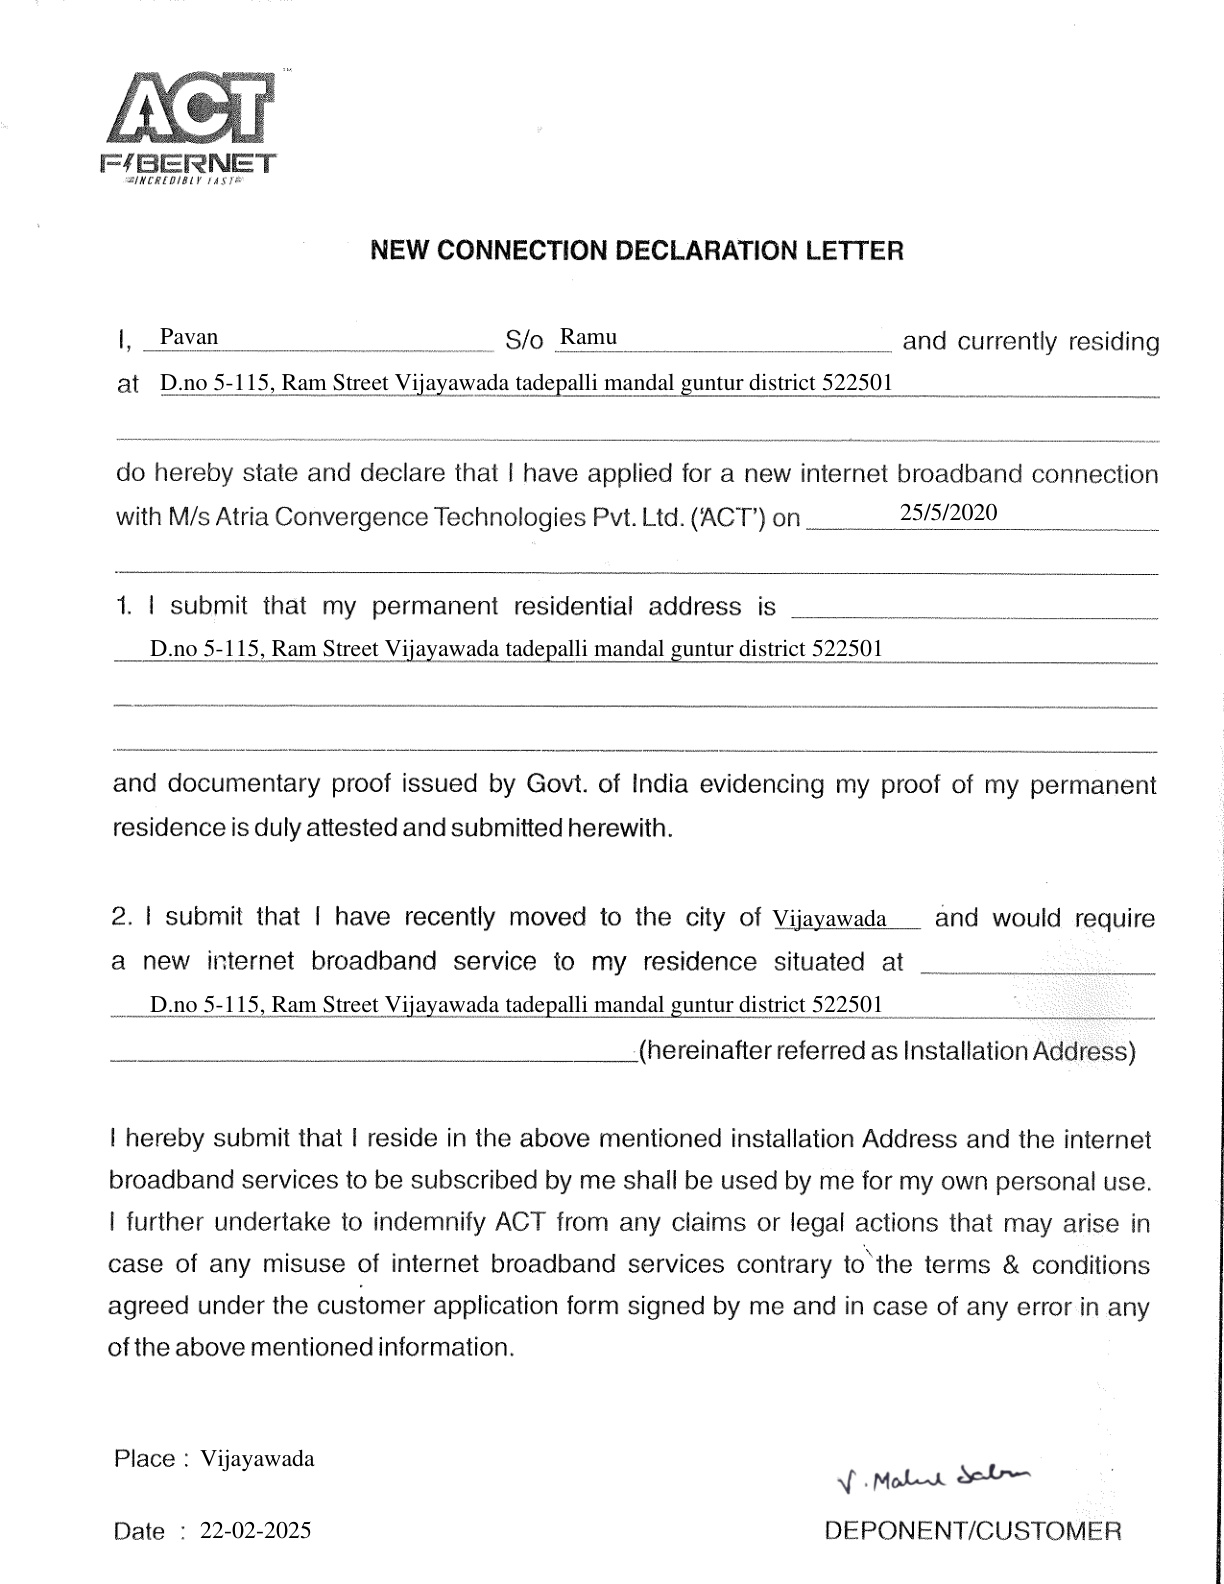
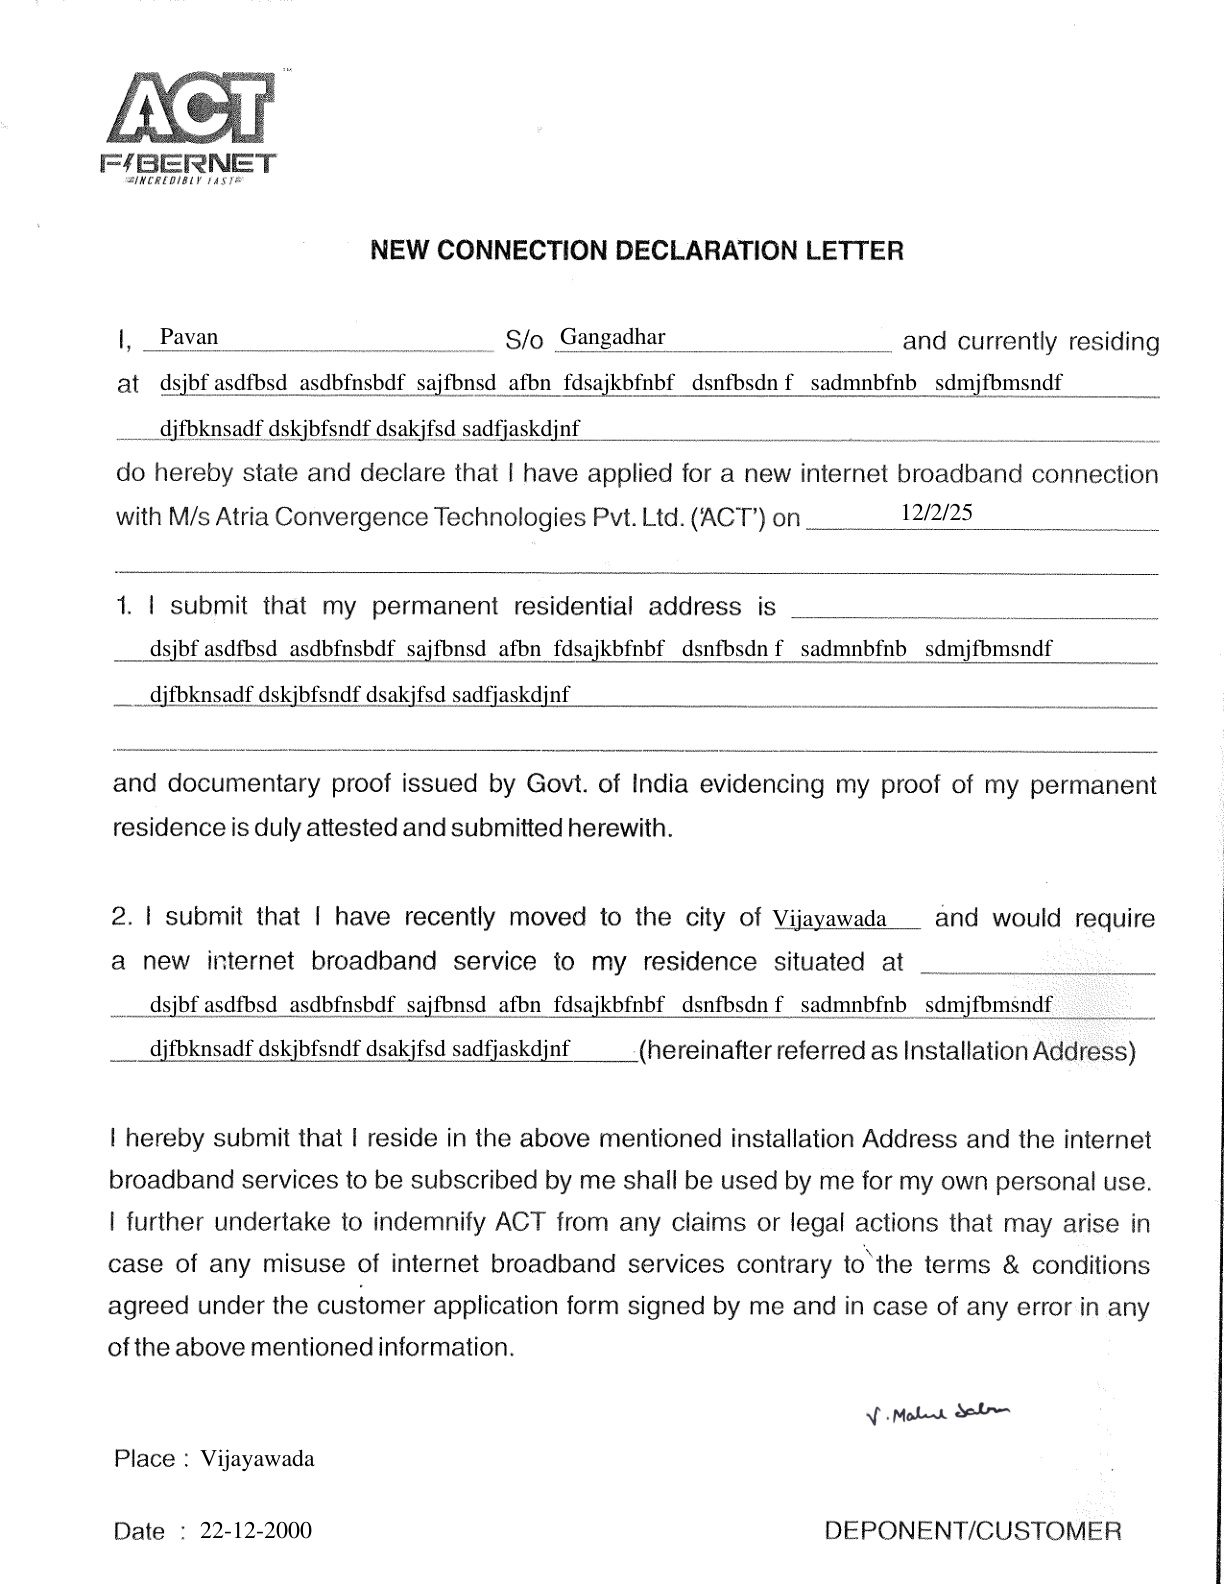
Fixed signature auto-scaling and centered it

diff --git a/app.py b/app.py
@@ -9,23 +9,72 @@ UPLOAD_FOLDER = 'uploads'
 os.makedirs(UPLOAD_FOLDER, exist_ok=True)
 
 # --- CONFIGURATION: EDIT THIS SECTION ---
-# Look at your 'grid_reference.pdf' and put the X, Y numbers here.
-# x = horizontal position, y = vertical position
 POSITIONS = {
-    "name":            {"x": 80, "y": 172},  # Example: Change these numbers!
+    "name":            {"x": 80, "y": 172},
     "father_name":     {"x": 280, "y": 172},
-    "current_address": {"x": 80, "y": 195},
+    
+    # LONG ADDRESS 1
+    "current_address": {
+        "x": 80, "y": 195,
+        "width_limit": 500,
+        "x2": 80, "y2": 218
+    },
+    
     "app_date":        {"x": 450, "y": 260},
-    "perm_address":    {"x": 75, "y": 328},
+    
+    # LONG ADDRESS 2
+    "perm_address":    {
+        "x": 75, "y": 328,
+        "width_limit": 500,
+        "x2": 75, "y2": 351
+    },
+    
     "city":            {"x": 386, "y": 463},
-    "install_address": {"x": 75, "y": 506},
+    
+    # LONG ADDRESS 3
+    "install_address": {
+        "x": 75, "y": 506,
+        "width_limit": 500,
+        "x2": 75, "y2": 528
+    },
+    
     "place":           {"x": 100, "y": 733},
     "sign_date":       {"x": 100, "y": 769},
     
-    # SIGNATURE AREA (Top-Left corner of where the image should go)
-    "signature":       {"x": 375, "y": 650, "width": 200, "height": 200}
+    # SIGNATURE AREA (Fixed Box)
+    "signature":       {"x": 375, "y": 640, "width": 200, "height": 150}
 }
-# ----------------------------------------
+
+# --- HELPER FUNCTION: SPLIT TEXT IF TOO LONG ---
+def fit_text_in_lines(page, text, fontname, fontsize, max_width):
+    """
+    Checks if text fits in width. If not, splits it into two lines.
+    Returns: (Line1_Text, Line2_Text)
+    """
+    # 1. Check if the whole text fits in one line
+    length = fitz.get_text_length(text, fontname=fontname, fontsize=fontsize)
+    if length <= max_width:
+        return text, ""  # Fits perfectly
+    
+    # 2. If too long, find the split point
+    words = text.split(' ')
+    current_line = ""
+    
+    for i, word in enumerate(words):
+        # Test adding the next word
+        test_line = current_line + word + " "
+        
+        if fitz.get_text_length(test_line, fontname=fontname, fontsize=fontsize) < max_width:
+            current_line += word + " "
+        else:
+            # We hit the limit! 
+            # line1 is what we built so far
+            line1 = current_line.strip()
+            # line2 is the rest of the words
+            line2 = " ".join(words[i:])
+            return line1, line2
+            
+    return text, ""
 
 @app.route('/')
 def index():
@@ -38,7 +87,7 @@ def process_pdf():
         doc = fitz.open(pdf_path)
         page = doc[0]
 
-        # 1. Loop through text fields (Your existing logic)
+        # 1. Loop through text fields
         for field_name, coords in POSITIONS.items():
             if field_name == "signature": continue 
             
@@ -53,52 +102,73 @@ def process_pdf():
                     pass 
 
             if user_input:
-                page.insert_text(
-                    (coords['x'], coords['y']), 
-                    user_input, 
-                    fontsize=12, 
-                    fontname="tiro", 
-                    color=(0, 0, 0)
-                )
+                # CHECK IF THIS FIELD NEEDS WRAPPING
+                if "width_limit" in coords:
+                    line1, line2 = fit_text_in_lines(page, user_input, "tiro", 12, coords["width_limit"])
+                    
+                    # Print Line 1
+                    page.insert_text((coords['x'], coords['y']), line1, fontsize=12, fontname="tiro", color=(0, 0, 0))
+                    
+                    # Print Line 2 (If exists)
+                    if line2:
+                        page.insert_text((coords['x2'], coords['y2']), line2, fontsize=12, fontname="tiro", color=(0, 0, 0))
+                else:
+                    # Normal Printing
+                    page.insert_text((coords['x'], coords['y']), user_input, fontsize=12, fontname="tiro", color=(0, 0, 0))
 
-        # 2. Handle Signature (Your existing Enhanced logic)
+        # 2. Handle Signature (FIXED POSITION & SIZE)
+        # 2. SMART SIGNATURE SCALING & CENTERING
         sig_file = request.files.get('signature')
         if sig_file:
             sig_path = os.path.join(UPLOAD_FOLDER, "temp_sig.png")
             
-            # Image Enhancement
+            # A. Process Image (Darken/Sharpen)
             img = Image.open(sig_file)
-            enhancer = ImageEnhance.Brightness(img)
-            img = enhancer.enhance(0.1) 
-            enhancer = ImageEnhance.Contrast(img)
-            img = enhancer.enhance(5.0) 
-            enhancer = ImageEnhance.Sharpness(img)
-            img = enhancer.enhance(2.0)
+            img = ImageEnhance.Brightness(img).enhance(0.1)  # Darken Ink
+            img = ImageEnhance.Contrast(img).enhance(5.0)    # Whiten Background
+            img = ImageEnhance.Sharpness(img).enhance(2.0)   # Sharpen Lines
             img.save(sig_path, "PNG", quality=100)
-
-            sig_conf = POSITIONS["signature"]
-            img_rect = fitz.Rect(
-                sig_conf['x'], 
-                sig_conf['y'], 
-                sig_conf['x'] + sig_conf['width'], 
-                sig_conf['y'] + sig_conf['height']
-            )
-            page.insert_image(img_rect, filename=sig_path)
-
-        # 3. DECIDE OUTPUT FORMAT (PDF vs JPEG)
-        output_format = request.form.get('output_format', 'pdf')
-        
-        if output_format == 'jpeg':
-            # --- CONVERT TO JPEG ---
-            # Matrix(2, 2) = Zoom in 2x (High Quality / 150-300 DPI)
-            # If you want it even clearer, change to Matrix(3, 3)
-            pix = page.get_pixmap(matrix=fitz.Matrix(2, 2)) 
             
+            # B. Get Dimensions
+            img_w, img_h = img.size
+            
+            # Get dimensions of our Allowed Box (from POSITIONS)
+            box_x = POSITIONS["signature"]["x"]
+            box_y = POSITIONS["signature"]["y"]
+            box_w = POSITIONS["signature"]["width"]
+            box_h = POSITIONS["signature"]["height"]
+
+            # C. Calculate Scaling Factor
+            # This logic finds the biggest size that fits without cutting the image
+            scale = min(box_w / img_w, box_h / img_h)
+            
+            new_w = int(img_w * scale)
+            new_h = int(img_h * scale)
+
+            # D. Calculate Centering Offsets
+            # This math moves the image to the exact center of the box
+            offset_x = (box_w - new_w) / 2
+            offset_y = (box_h - new_h) / 2
+            
+            final_x = box_x + offset_x
+            final_y = box_y + offset_y
+
+            # E. Insert Image at Calculated Position
+            img_rect = fitz.Rect(final_x, final_y, final_x + new_w, final_y + new_h)
+            page.insert_image(img_rect, filename=sig_path)
+            
+            # keep_proportion=True -> Prevents stretching
+            # overlay=True -> Ensures it sits on top of text
+            page.insert_image(img_rect, filename=sig_path, keep_proportion=True, overlay=True)
+
+        # 3. Output Logic (PDF/JPEG)
+        output_format = request.form.get('output_format', 'pdf')
+        if output_format == 'jpeg':
+            pix = page.get_pixmap(matrix=fitz.Matrix(2, 2)) 
             output_path = os.path.join(UPLOAD_FOLDER, "Filled_Declaration.jpg")
             pix.save(output_path)
             mime_type = 'image/jpeg'
         else:
-            # --- SAVE AS PDF ---
             output_path = os.path.join(UPLOAD_FOLDER, "Filled_Declaration.pdf")
             doc.save(output_path)
             mime_type = 'application/pdf'
